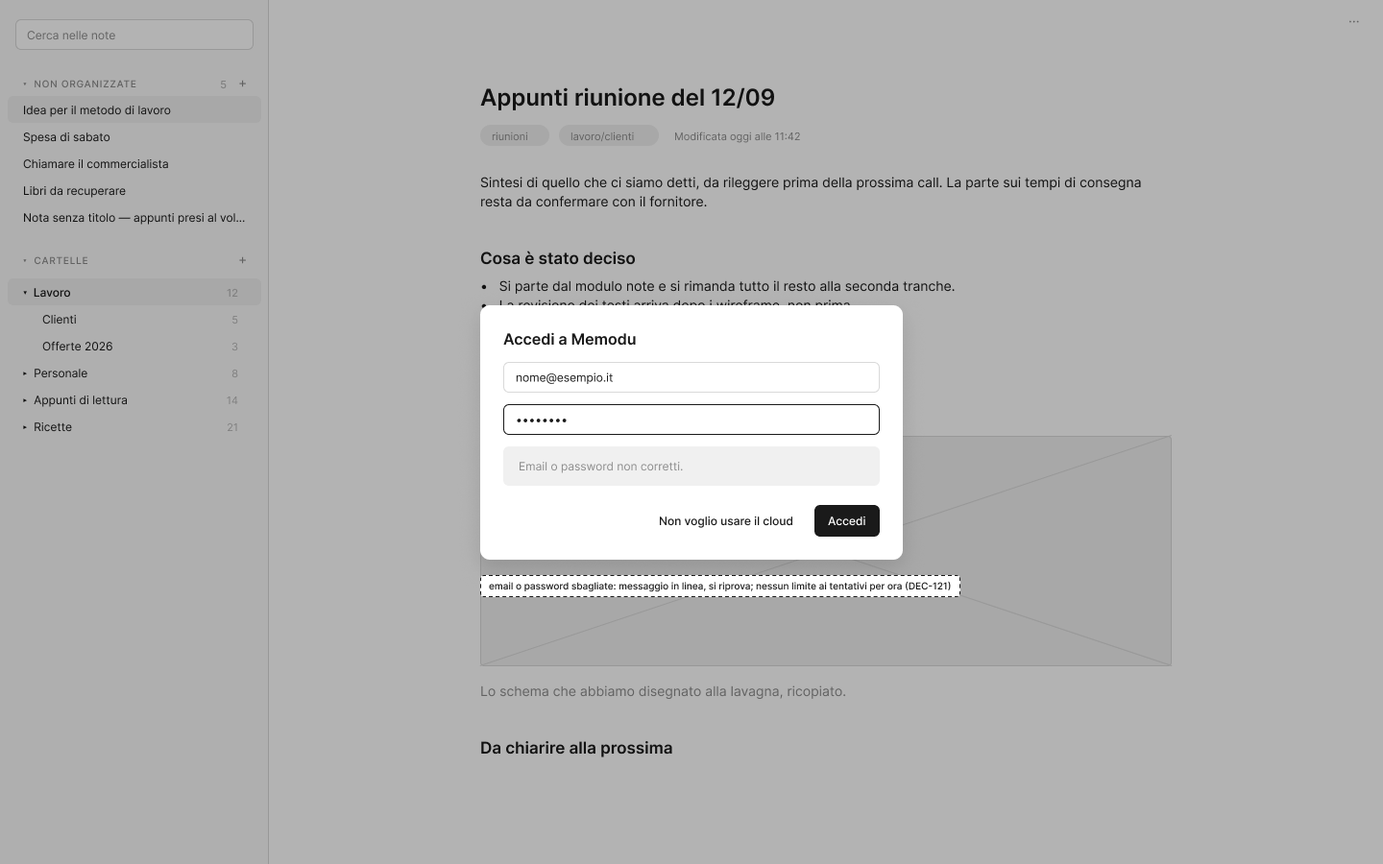
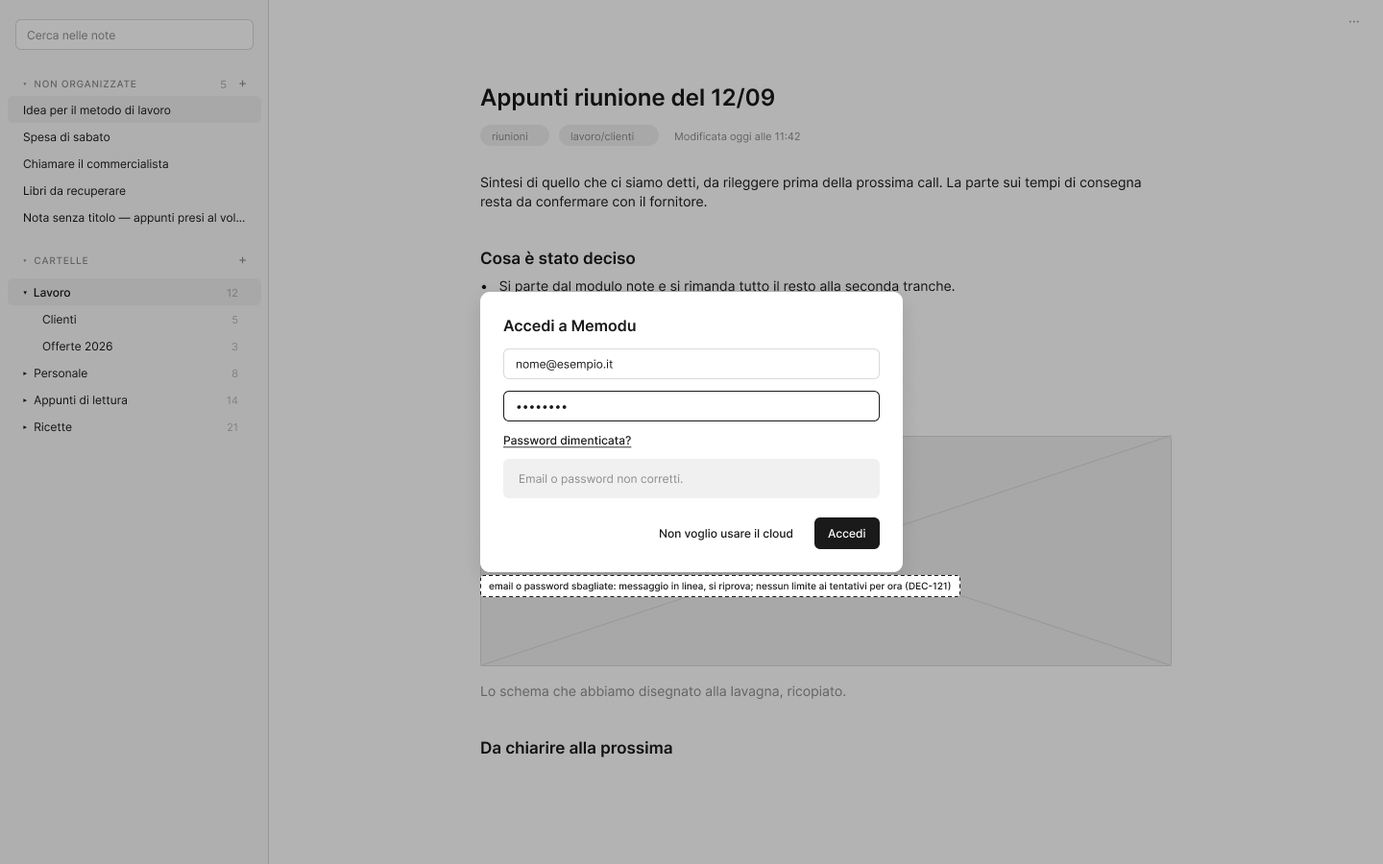
DEC-132: Fase 4 degli account nel database approvata, wireframe del recupero, del cambio della password e dei dispositivi

Changed region(s): [[0.3438, 0.3111, 0.6562, 0.56], [0.3438, 0.56, 0.6562, 0.6844]]

diff --git a/docs/avanzamento.md b/docs/avanzamento.md
@@ -2,7 +2,7 @@
 
 <!-- Stato della documentazione (vedi "Lo stato della documentazione" nella guida). Si sovrascrive; le modifiche non vanno nello storico. Chi riprende il lavoro parte da qui. -->
 
-**Ultimo aggiornamento:** 14/10/2026 (account nel database per la prova (DEC-132): Fase 1 di RF-14 e RF-16 approvata; Fase 2 approvata (FL-14, FL-15, RB-97 … RB-100); Fase 3 approvata (EN-05, EN-06 e stati del dispositivo; email e cancellazione dell'account non dall'app), prossimo: Fase 4 (wireframe); scenario d'uso approvato da Manuel Cucca, RF-16 da Should a Must, RF-10 con i blocchi separati per utente; la chiave nuova dopo un recupero la manda l'utente a Manuel Cucca; criteri di accettazione in Fase 8; idea ID-39, diario «a rete», da riprendere dopo. Prima, 09/10/2026: versione 1.1.0 di prova: numero di versione a 1.1.0 su `main` e tag `1.1.0` senza «v» (scelta di Manuel Cucca: il rilascio su GitHub non parte, la 1.0.0 ha la priorità), installata sul PC di Manuel Cucca. Prima, 09/10/2026: bollicina nelle note di rilascio della 1.1.0 (CHANGELOG) e nella guida per gli utenti (sezione «La bollicina del formato», nota rapida, Locale), approvate da Manuel Cucca; la bollicina è pronta per il rilascio con la 1.1.0, dopo la 1.0.0. Prima, 09/10/2026: bollicina: libreria pubblicata da Manuel Cucca, mockup di SC-02, SC-03 e del file `.md` di Locale aggiornati al ritocco ed esportati di nuovo; prossimo: il rilascio della 1.1.0 dopo la 1.0.0 (note di rilascio e guida con la bollicina). Prima, 09/10/2026: bollicina, libreria Figma aggiornata al ritocco (bollicina alta 32, nella nota rapida accanto a Chiudi, cassetto centrato o su due righe allineato in basso, anche nel codice), da pubblicare; poi i mockup. Prima, 09/10/2026: bollicina, attività 5 fatta: prove a mano TC-12, TC-167 … TC-171 e TC-173 superate nell'app di sviluppo, TC-172 superato; restano la libreria Figma e i mockup da aggiornare al ritocco grafico (con l'ok di Manuel Cucca), poi il rilascio con la 1.1.0. Prima, 09/10/2026: bollicina, attività 4 fatta: 8 prove automatiche dell'interfaccia (componente, nota aperta con l'editor vero, file `.md` e `.txt`, nota rapida), 274 prove in tutto; prossimo: attività 5, prove a mano. Prima, 09/10/2026: bollicina, attività 3 fatta: bollicina nella nota aperta, nella nota rapida (subito a sinistra di Chiudi, ritocco di Manuel Cucca) e nei file `.md`, alta 32 come gli altri pulsanti; provata nell'app di sviluppo; il formato acceso resta anche dopo uno spazio e quando il cursore torna nello stesso punto (266 prove); libreria Figma e mockup da aggiornare al ritocco; prossimo: attività 4, prove automatiche dell'interfaccia. Prima, 09/10/2026: bollicina, attività 2 fatta: componente `Bollicina.tsx` (CMP-10) con il cassetto su una o due righe, l'editor avvisa del formato e applica la voce scelta; prossimo: attività 3, la bollicina nella nota aperta, nella nota rapida e nei file `.md`. Prima, 09/10/2026: bollicina, attività 1 fatta: formato mostrato e comandi del cassetto in `formati.ts`, `<u>`, formato in attesa e `-[]` in `scrittura.ts`, 21 prove automatiche nuove (264 in tutto); prossimo: attività 2, la bollicina collegata all'editor. Prima, 09/10/2026: Fase 8 di RF-02 per la bollicina approvata; prossimo: attività 1 (comandi): TC-12 riscritto, TC-167 … TC-173, TC-11 e TC-13 rinviati con le scorciatoie; cinque attività di sviluppo. Prima, 09/10/2026: Fase 7 di RF-02 per la bollicina approvata; prossimo: Fase 8 (piano di test): editor CodeMirror confermato, comandi della bollicina sopra la libreria, scorciatoie rinviate da Manuel Cucca (vedi Rinvii). Prima, 09/10/2026: Fase 6 di RF-02 per la bollicina approvata; prossimo: Fase 7 (architettura): libreria pubblicata due volte (icone a tracciato unico e CMP-10; poi CMP-23 con la bollicina), file dei mockup aggiornato con i colori delle icone e i testi rimessi, mockup nuovi di SC-03 (bollicina chiusa, cassetto aperto, nota nuova con T), SC-02 (cassetto aperto) e del file `.md` di Locale; pillola e menu `/` SUPERATI. Prima, 09/10/2026: Fase 5 di RF-02 per la bollicina approvata: CMP-10 Bollicina del formato con le parti interne Bollicina e Cassetto, tre icone nuove, icone unite in un tracciato solo; libreria da pubblicare (la pubblica Manuel Cucca); prossimo: Fase 6, i mockup. Prima, 09/10/2026: Fase 4 di RF-02 per la bollicina approvata: SC-03 con la bollicina e il cassetto, SC-02 con la bollicina nella fascia in basso, il file `.md` di Locale. Prima, 09/10/2026: Fase 3 di RF-02 per la bollicina approvata: nessun attributo nuovo, i formati stanno nel Contenuto (RB-95). Prima, 09/10/2026: Fase 2 di RF-02 per la bollicina approvata: FL-02 con i tre modi di formattare, RB-93 … RB-96, SF-36 con il sottolineato. Prima, 09/10/2026: DEC-131: la bollicina del formato in vista Markdown, con il cassetto dei formati, le scorciatoie e `-[]`; Fase 1 di RF-02 approvata; prossimo: Fase 2 (flussi). Prima, 09/10/2026: ciclo 1.1.0: note di rilascio in CHANGELOG e guida per gli utenti aggiornate con la vista della nota; per scelta di Manuel Cucca la 1.1.0 si pubblica dopo la 1.0.0, che attende le prove sul Mac. Prima, 09/10/2026: ciclo 1.1.0, attività 5 fatta: prove a mano TC-10, TC-158 … TC-164 e TC-166 superate nell'app di sviluppo; in TC-10 il testo dopo i simboli di chiusura scritti a mano resta nel formato, comportamento previsto per Manuel Cucca; prossimo: 9 – Rilascio della 1.1.0. Prima, 09/10/2026: ciclo 1.1.0, attività 4 fatta: 7 prove automatiche dell'interfaccia per la vista, 248 prove passate, lint pulito; prossimo: attività 5, prove a mano. Prima, 09/10/2026: ciclo 1.1.0, attività 3 fatta: riga Vista in Info, vista nella nota aperta, nella nota rapida e in Locale per estensione; prossimo: attività 4, prove automatiche dell'interfaccia. Prima, 09/10/2026: ciclo 1.1.0, attività 2 fatta: l'editor con la vista Markdown, simboli nascosti e scrittura come in Word, 15 prove automatiche; prossimo: attività 3, l'interfaccia. Prima, 08/10/2026: ciclo 1.1.0: Fasi 1–8 della vista della nota fatte, piano di test TC-10 e TC-158 … TC-166, cinque attività di sviluppo; prossimo: attività 1, il nucleo. Prima, 08/10/2026: ciclo 1.1.0, DEC-130: ogni nota si vede come Testo o come Markdown, scelta nella comparsa Info e salvata con la nota; simboli nascosti e scrittura come in Word; Fase 1 di RF-02 con CA-02.2 e CA-02.14 … CA-02.19, più CA-17.25 per i file di Locale; prossimo: Fase 2 (flussi). Prima, 08/10/2026: DEC-129: la 1.0.0 attende le prove sul Mac sul ramo `rilascio/1.0`; su `main` si apre il ciclo della 1.1.0 con la formattazione Markdown di RF-02 (DEC-64, DEC-125); prima scelta: il motore dell'editor. Prima, 08/10/2026: Fase 9 conclusa: retrospettiva con SF-38 … SF-42 nel catalogo delle sfighe, ID-37 e ID-38 nel registro idee, DEC-128 e due aggiunte alla guida; prossimo: le prove sul Mac elencate in DEC-128, poi il rilascio della 1.0.0 quando lo decide Manuel Cucca. Prima, 08/10/2026: note di rilascio della 1.0.0 approvate. Prima, 08/10/2026: guida per gli utenti approvata; restano note di rilascio e retrospettiva, più le discordanze tra documenti e codice trovate scrivendo la guida. Prima, 07/10/2026: DEC-125: RF-02 (formattazione) e RF-03 (immagini) fuori dalla v1 personale; prossimo la Fase 9. Prima, 07/10/2026: RF-11 Interazioni rapide: criteri e piano di test approvati, prove TC-150 … TC-157 superate; Pronto per il rilascio (resta macOS, con ⌘). Prima, 07/10/2026: DEC-124 accettata e fatta: clic fuori sulle finestre col velo come Esc, manina su tutto ciò che si clicca; doppio occhio di Edge nel campo password tolto; rilasciati nella 0.1.13. Prima, 07/10/2026: rilascio 0.1.12 con la correzione della sincronizzazione dopo un archivio nuovo e il server che accetta solo il JWT. Prima, 07/10/2026: prove a mano del blocco 1 fatte dall'agente con app di sviluppo in parallelo: sincronizzazione TC-87 … TC-95 e TC-103 (con una correzione nel nucleo), scrivere TC-02, TC-03, TC-23, TC-24, TC-26, TC-27, TC-30, ricerca TC-74, Locale TC-104; restano le prove che vogliono gesti veri sul sistema o il Mac. Prima, 07/10/2026: verso la v1 personale, blocco 1 scelto da Manuel Cucca: produzione ripulita (gettone statico tolto dall'API), backup in sospeso, prove a mano fatte dall'agente avvisando prima di ognuna. Prima, 07/10/2026: DEC-123 accettata da Manuel Cucca: comparsa del file di Locale con Chiudi file e Togli da Locale; codice fatto e rilasciato nella 0.1.11, TC-146 e TC-148 superati. Prima, 07/10/2026: DEC-122 accettata da Manuel Cucca: impostazioni con il box dell'account in cima e le sezioni in riquadri; libreria approvata (CMP-31, CMP-32); codice fatto e rilasciato nella 0.1.10, TC-141 e TC-142 superati; restano TC-143 … TC-145 a mano. 0.1.9 installata sul PC Windows, note sul server tutte cifrate; da fare il Mac, TC-127, TC-136 e la rimozione di `MEMODU_IMPRONTA`. Prima, 06/10/2026: DEC-121 accettata da Manuel Cucca: accesso con email e password di un utente fisso e cifratura end-to-end, architettura temporanea e finale; documenti aggiornati, RF-14 e cifratura di RF-10 Pronti con criteri e piano di test approvati, la cifratura di RF-10 va in Fase 8; codice da fare. Prima, 04/10/2026: DEC-120 corretto dopo la prova di Manuel Cucca sulla 0.1.7: velo su tutta la finestra mentre si trascina da fuori, il file rilasciato non entra più nel testo aperto; rilasciato nella 0.1.8, installata sul PC di Manuel Cucca; TC-122 superato su Windows, da provare sul Mac; DEC-120: file e cartelle trascinati dentro Memodu vanno in Locale, trascinamento interno con il puntatore, 0.1.7 rilasciata e installata; DEC-119: sezione CLOUD con le non organizzate nella radice, note prima delle cartelle; libreria pubblicata (CMP-14, menu Aggiungi in CMP-09), mockup di SC-01, SC-03, SC-04, SC-06 e Locale aggiornati con le esportazioni; codice fatto il 04/10/2026 (`Colonna.tsx`, Sposta in, ricerca, ordine di Locale nel nucleo) e visto nell'app; RF-17 Locale progettato dalla Fase 1 alla 8 e scritto, DEC-115 … DEC-118; Ctrl + W e «Chiudi» per impostazioni e cestino, DEC-116, DEC-117; rilascio 0.1.4, installato su tutti e due i computer; TC-86 superato, le altre prove a mano della sincronizzazione messe da parte; criteri e piano di test della sincronizzazione approvati con DEC-109 … DEC-114, RF-10 senza cifratura e RF-14 Pronti; server di sincronizzazione su Vercel con Neon e due computer collegati; rilasci 0.1.2 e 0.1.3, con il testo della nota su tutta la larghezza (DEC-107); prima, 01/10/2026: allineamento generale della documentazione a decisioni e codice, con i dubbi raccolti per Manuel Cucca; CMP-25 in tutte le aree che scorrono, provata anche nella nota rapida; DEC-102 Ctrl + \ fissa la colonna, provata su Windows, da provare su macOS; DEC-99 icona della cartella e DEC-100 spazi dal ruolo del contenitore: libreria, mockup e codice allineati e misurati nell'app; DEC-97: Info più snella e due regole per gli spazi dei contenitori, in libreria e nel codice; prossimo: la pubblicazione della libreria e i mockup; DEC-96: Info sotto il titolo e ricerca avanzata, libreria allineata; RF-08 Ricerca: prove a mano nell'app e correzione dei due difetti trovati; prossimo: le prove che vogliono Manuel Cucca, poi Fase 9)
+**Ultimo aggiornamento:** 14/10/2026 (account nel database per la prova (DEC-132): Fase 1 di RF-14 e RF-16 approvata; Fase 2 approvata (FL-14, FL-15, RB-97 … RB-100); Fase 3 approvata (EN-05, EN-06 e stati del dispositivo; email e cancellazione dell'account non dall'app); Fase 4 approvata (wireframe di SC-05 con il recupero, SC-08 Cambia password, SC-09 Dispositivi collegati, collegamenti nel box dell'account di SC-06), prossimo: Fase 5 (componenti: collegamento, casella, chiave da conservare); scenario d'uso approvato da Manuel Cucca, RF-16 da Should a Must, RF-10 con i blocchi separati per utente; la chiave nuova dopo un recupero la manda l'utente a Manuel Cucca; criteri di accettazione in Fase 8; idea ID-39, diario «a rete», da riprendere dopo. Prima, 09/10/2026: versione 1.1.0 di prova: numero di versione a 1.1.0 su `main` e tag `1.1.0` senza «v» (scelta di Manuel Cucca: il rilascio su GitHub non parte, la 1.0.0 ha la priorità), installata sul PC di Manuel Cucca. Prima, 09/10/2026: bollicina nelle note di rilascio della 1.1.0 (CHANGELOG) e nella guida per gli utenti (sezione «La bollicina del formato», nota rapida, Locale), approvate da Manuel Cucca; la bollicina è pronta per il rilascio con la 1.1.0, dopo la 1.0.0. Prima, 09/10/2026: bollicina: libreria pubblicata da Manuel Cucca, mockup di SC-02, SC-03 e del file `.md` di Locale aggiornati al ritocco ed esportati di nuovo; prossimo: il rilascio della 1.1.0 dopo la 1.0.0 (note di rilascio e guida con la bollicina). Prima, 09/10/2026: bollicina, libreria Figma aggiornata al ritocco (bollicina alta 32, nella nota rapida accanto a Chiudi, cassetto centrato o su due righe allineato in basso, anche nel codice), da pubblicare; poi i mockup. Prima, 09/10/2026: bollicina, attività 5 fatta: prove a mano TC-12, TC-167 … TC-171 e TC-173 superate nell'app di sviluppo, TC-172 superato; restano la libreria Figma e i mockup da aggiornare al ritocco grafico (con l'ok di Manuel Cucca), poi il rilascio con la 1.1.0. Prima, 09/10/2026: bollicina, attività 4 fatta: 8 prove automatiche dell'interfaccia (componente, nota aperta con l'editor vero, file `.md` e `.txt`, nota rapida), 274 prove in tutto; prossimo: attività 5, prove a mano. Prima, 09/10/2026: bollicina, attività 3 fatta: bollicina nella nota aperta, nella nota rapida (subito a sinistra di Chiudi, ritocco di Manuel Cucca) e nei file `.md`, alta 32 come gli altri pulsanti; provata nell'app di sviluppo; il formato acceso resta anche dopo uno spazio e quando il cursore torna nello stesso punto (266 prove); libreria Figma e mockup da aggiornare al ritocco; prossimo: attività 4, prove automatiche dell'interfaccia. Prima, 09/10/2026: bollicina, attività 2 fatta: componente `Bollicina.tsx` (CMP-10) con il cassetto su una o due righe, l'editor avvisa del formato e applica la voce scelta; prossimo: attività 3, la bollicina nella nota aperta, nella nota rapida e nei file `.md`. Prima, 09/10/2026: bollicina, attività 1 fatta: formato mostrato e comandi del cassetto in `formati.ts`, `<u>`, formato in attesa e `-[]` in `scrittura.ts`, 21 prove automatiche nuove (264 in tutto); prossimo: attività 2, la bollicina collegata all'editor. Prima, 09/10/2026: Fase 8 di RF-02 per la bollicina approvata; prossimo: attività 1 (comandi): TC-12 riscritto, TC-167 … TC-173, TC-11 e TC-13 rinviati con le scorciatoie; cinque attività di sviluppo. Prima, 09/10/2026: Fase 7 di RF-02 per la bollicina approvata; prossimo: Fase 8 (piano di test): editor CodeMirror confermato, comandi della bollicina sopra la libreria, scorciatoie rinviate da Manuel Cucca (vedi Rinvii). Prima, 09/10/2026: Fase 6 di RF-02 per la bollicina approvata; prossimo: Fase 7 (architettura): libreria pubblicata due volte (icone a tracciato unico e CMP-10; poi CMP-23 con la bollicina), file dei mockup aggiornato con i colori delle icone e i testi rimessi, mockup nuovi di SC-03 (bollicina chiusa, cassetto aperto, nota nuova con T), SC-02 (cassetto aperto) e del file `.md` di Locale; pillola e menu `/` SUPERATI. Prima, 09/10/2026: Fase 5 di RF-02 per la bollicina approvata: CMP-10 Bollicina del formato con le parti interne Bollicina e Cassetto, tre icone nuove, icone unite in un tracciato solo; libreria da pubblicare (la pubblica Manuel Cucca); prossimo: Fase 6, i mockup. Prima, 09/10/2026: Fase 4 di RF-02 per la bollicina approvata: SC-03 con la bollicina e il cassetto, SC-02 con la bollicina nella fascia in basso, il file `.md` di Locale. Prima, 09/10/2026: Fase 3 di RF-02 per la bollicina approvata: nessun attributo nuovo, i formati stanno nel Contenuto (RB-95). Prima, 09/10/2026: Fase 2 di RF-02 per la bollicina approvata: FL-02 con i tre modi di formattare, RB-93 … RB-96, SF-36 con il sottolineato. Prima, 09/10/2026: DEC-131: la bollicina del formato in vista Markdown, con il cassetto dei formati, le scorciatoie e `-[]`; Fase 1 di RF-02 approvata; prossimo: Fase 2 (flussi). Prima, 09/10/2026: ciclo 1.1.0: note di rilascio in CHANGELOG e guida per gli utenti aggiornate con la vista della nota; per scelta di Manuel Cucca la 1.1.0 si pubblica dopo la 1.0.0, che attende le prove sul Mac. Prima, 09/10/2026: ciclo 1.1.0, attività 5 fatta: prove a mano TC-10, TC-158 … TC-164 e TC-166 superate nell'app di sviluppo; in TC-10 il testo dopo i simboli di chiusura scritti a mano resta nel formato, comportamento previsto per Manuel Cucca; prossimo: 9 – Rilascio della 1.1.0. Prima, 09/10/2026: ciclo 1.1.0, attività 4 fatta: 7 prove automatiche dell'interfaccia per la vista, 248 prove passate, lint pulito; prossimo: attività 5, prove a mano. Prima, 09/10/2026: ciclo 1.1.0, attività 3 fatta: riga Vista in Info, vista nella nota aperta, nella nota rapida e in Locale per estensione; prossimo: attività 4, prove automatiche dell'interfaccia. Prima, 09/10/2026: ciclo 1.1.0, attività 2 fatta: l'editor con la vista Markdown, simboli nascosti e scrittura come in Word, 15 prove automatiche; prossimo: attività 3, l'interfaccia. Prima, 08/10/2026: ciclo 1.1.0: Fasi 1–8 della vista della nota fatte, piano di test TC-10 e TC-158 … TC-166, cinque attività di sviluppo; prossimo: attività 1, il nucleo. Prima, 08/10/2026: ciclo 1.1.0, DEC-130: ogni nota si vede come Testo o come Markdown, scelta nella comparsa Info e salvata con la nota; simboli nascosti e scrittura come in Word; Fase 1 di RF-02 con CA-02.2 e CA-02.14 … CA-02.19, più CA-17.25 per i file di Locale; prossimo: Fase 2 (flussi). Prima, 08/10/2026: DEC-129: la 1.0.0 attende le prove sul Mac sul ramo `rilascio/1.0`; su `main` si apre il ciclo della 1.1.0 con la formattazione Markdown di RF-02 (DEC-64, DEC-125); prima scelta: il motore dell'editor. Prima, 08/10/2026: Fase 9 conclusa: retrospettiva con SF-38 … SF-42 nel catalogo delle sfighe, ID-37 e ID-38 nel registro idee, DEC-128 e due aggiunte alla guida; prossimo: le prove sul Mac elencate in DEC-128, poi il rilascio della 1.0.0 quando lo decide Manuel Cucca. Prima, 08/10/2026: note di rilascio della 1.0.0 approvate. Prima, 08/10/2026: guida per gli utenti approvata; restano note di rilascio e retrospettiva, più le discordanze tra documenti e codice trovate scrivendo la guida. Prima, 07/10/2026: DEC-125: RF-02 (formattazione) e RF-03 (immagini) fuori dalla v1 personale; prossimo la Fase 9. Prima, 07/10/2026: RF-11 Interazioni rapide: criteri e piano di test approvati, prove TC-150 … TC-157 superate; Pronto per il rilascio (resta macOS, con ⌘). Prima, 07/10/2026: DEC-124 accettata e fatta: clic fuori sulle finestre col velo come Esc, manina su tutto ciò che si clicca; doppio occhio di Edge nel campo password tolto; rilasciati nella 0.1.13. Prima, 07/10/2026: rilascio 0.1.12 con la correzione della sincronizzazione dopo un archivio nuovo e il server che accetta solo il JWT. Prima, 07/10/2026: prove a mano del blocco 1 fatte dall'agente con app di sviluppo in parallelo: sincronizzazione TC-87 … TC-95 e TC-103 (con una correzione nel nucleo), scrivere TC-02, TC-03, TC-23, TC-24, TC-26, TC-27, TC-30, ricerca TC-74, Locale TC-104; restano le prove che vogliono gesti veri sul sistema o il Mac. Prima, 07/10/2026: verso la v1 personale, blocco 1 scelto da Manuel Cucca: produzione ripulita (gettone statico tolto dall'API), backup in sospeso, prove a mano fatte dall'agente avvisando prima di ognuna. Prima, 07/10/2026: DEC-123 accettata da Manuel Cucca: comparsa del file di Locale con Chiudi file e Togli da Locale; codice fatto e rilasciato nella 0.1.11, TC-146 e TC-148 superati. Prima, 07/10/2026: DEC-122 accettata da Manuel Cucca: impostazioni con il box dell'account in cima e le sezioni in riquadri; libreria approvata (CMP-31, CMP-32); codice fatto e rilasciato nella 0.1.10, TC-141 e TC-142 superati; restano TC-143 … TC-145 a mano. 0.1.9 installata sul PC Windows, note sul server tutte cifrate; da fare il Mac, TC-127, TC-136 e la rimozione di `MEMODU_IMPRONTA`. Prima, 06/10/2026: DEC-121 accettata da Manuel Cucca: accesso con email e password di un utente fisso e cifratura end-to-end, architettura temporanea e finale; documenti aggiornati, RF-14 e cifratura di RF-10 Pronti con criteri e piano di test approvati, la cifratura di RF-10 va in Fase 8; codice da fare. Prima, 04/10/2026: DEC-120 corretto dopo la prova di Manuel Cucca sulla 0.1.7: velo su tutta la finestra mentre si trascina da fuori, il file rilasciato non entra più nel testo aperto; rilasciato nella 0.1.8, installata sul PC di Manuel Cucca; TC-122 superato su Windows, da provare sul Mac; DEC-120: file e cartelle trascinati dentro Memodu vanno in Locale, trascinamento interno con il puntatore, 0.1.7 rilasciata e installata; DEC-119: sezione CLOUD con le non organizzate nella radice, note prima delle cartelle; libreria pubblicata (CMP-14, menu Aggiungi in CMP-09), mockup di SC-01, SC-03, SC-04, SC-06 e Locale aggiornati con le esportazioni; codice fatto il 04/10/2026 (`Colonna.tsx`, Sposta in, ricerca, ordine di Locale nel nucleo) e visto nell'app; RF-17 Locale progettato dalla Fase 1 alla 8 e scritto, DEC-115 … DEC-118; Ctrl + W e «Chiudi» per impostazioni e cestino, DEC-116, DEC-117; rilascio 0.1.4, installato su tutti e due i computer; TC-86 superato, le altre prove a mano della sincronizzazione messe da parte; criteri e piano di test della sincronizzazione approvati con DEC-109 … DEC-114, RF-10 senza cifratura e RF-14 Pronti; server di sincronizzazione su Vercel con Neon e due computer collegati; rilasci 0.1.2 e 0.1.3, con il testo della nota su tutta la larghezza (DEC-107); prima, 01/10/2026: allineamento generale della documentazione a decisioni e codice, con i dubbi raccolti per Manuel Cucca; CMP-25 in tutte le aree che scorrono, provata anche nella nota rapida; DEC-102 Ctrl + \ fissa la colonna, provata su Windows, da provare su macOS; DEC-99 icona della cartella e DEC-100 spazi dal ruolo del contenitore: libreria, mockup e codice allineati e misurati nell'app; DEC-97: Info più snella e due regole per gli spazi dei contenitori, in libreria e nel codice; prossimo: la pubblicazione della libreria e i mockup; DEC-96: Info sotto il titolo e ricerca avanzata, libreria allineata; RF-08 Ricerca: prove a mano nell'app e correzione dei due difetti trovati; prossimo: le prove che vogliono Manuel Cucca, poi Fase 9)
 
 ## Pacchetti e frammenti
 
@@ -21,7 +21,7 @@ Perimetro: note solo cloud più un editor di file locali non sincronizzati (DEC-
 | Locale (DEC-115, DEC-123) | RF-17 | 1–8; codice fatto il 04/10/2026 | DEC-123: fatto; TC-146 … TC-149 superati il 07/10/2026 (codice fatto e rilasciato nella 0.1.11 il 07/10/2026, TC-146 e TC-148 superati); poi prove a mano di Manuel Cucca | **DEC-123 del 07/10/2026:** clic sul nome di un file nel percorso apre una comparsa come Info con il nome, Chiudi file e, per un file aggiunto da solo, Togli da Locale. **Codice fatto il 04/10/2026:** nucleo `archivio_locale.rs` e `locale.rs` (schema 6, 16 prove), interfaccia `client/src/locale/` (7 prove); provato nell'app con una cartella dei dati di prova: apertura, pallino, Ctrl + S, file cambiato fuori, UTF-8, CRLF, file troppo grande, sola lettura, file nuovo, menu, Cestino di Windows. Prove a mano del 05/10/2026 nell'app installata (0.1.8) su Windows (agente, cartella dei dati di prova): superati TC-104 (tranne il secondo computer), TC-105, TC-106, TC-107, TC-113, TC-115, TC-117, TC-119, TC-123; **TC-114 non superato**: su un disco senza Cestino (provato su una condivisione di rete) Elimina cancellava per sempre senza la conferma; corretto nel nucleo il 05/10/2026 (solo i dischi fissi di Windows vanno nel Cestino), provato nell'app compilata e superato, non ancora rilasciato; resta la prova con una chiavetta vera (vedi `moduli/locale/8-test.md`). Scelte di Manuel Cucca del 04/10/2026 in `moduli/locale/1-requisiti.md`: voce Locale nella colonna con le cartelle aggiunte, solo .md e .txt, crea, rinomina, sposta ed elimina sul disco (nel Cestino del sistema), salvataggio con Ctrl + S, avviso se il file cambia fuori, niente tag, ricerca, cestino né sincronizzazione; elenco delle cartelle per computer. Fase 1 chiusa il 04/10/2026 con lo scenario d'uso; Manuel Cucca ha scelto di progettarlo subito |
 | Vista della nota · 1.1.0 (DEC-129, DEC-130) | RF-02 (CA-02.2, CA-02.14 … CA-02.20), CA-17.25 | 1, 2, 3, 4, 5, 6, 7, 8 | Pronto per il rilascio, dopo la 1.0.0 (attività 1 … 5 fatte: il nucleo il 08/10/2026, le altre il 09/10/2026; prove a mano TC-10, TC-158 … TC-164 e TC-166 superate, TC-165 in prova automatica) | Su `main`; la 1.0.0 attende le prove sul Mac sul ramo `rilascio/1.0`. **Attività:** (1) nucleo: schema 7 con `vista`, note nuove in `markdown`, `cambia_vista`, sincronizzazione con RB-92, prove del nucleo (TC-165); (2) editor: compartimento Markdown in `Editor.tsx` con la resa da `anteprima.ts`, simboli atomici, ai bordi e Invio e Backspace come in Word, casella cliccabile (CA-02.2, CA-02.15 … CA-02.20); (3) interfaccia: riga Vista in Info con `SceltaSegmenti`, vista nella nota aperta, nella nota rapida e in Locale per estensione (CA-02.14, CA-17.25); (4) prove automatiche dell'interfaccia e lint; (5) prove a mano TC-10, TC-158 … TC-166, poi 9 – Rilascio della 1.1.0 |
 | Bollicina del formato (DEC-131) | RF-02 (CA-02.3 … CA-02.5, CA-02.21 … CA-02.25) | 1, 2, 3, 4, 5, 6, 7, 8 | Pronto per il rilascio, con la 1.1.0 | Su `main`, dopo la vista della nota. Sostituisce la pillola degli strumenti (CMP-10). Attività di sviluppo: 1) formato mostrato e comandi in `formati.ts`, `<u>` e `-[]` in `scrittura.ts`, con le prove automatiche (TC-172); 2) componente `Bollicina.tsx` e collegamento con l'editor; 3) nota aperta, nota rapida e file `.md`; 4) prove automatiche dell'interfaccia; 5) prove a mano (TC-12, TC-167 … TC-171, TC-173) |
-| Account nel database per la prova (DEC-132) | RF-14, RF-16, RF-10 | 1, 2, 3 | 4 – Wireframe | Fase 1 approvata da Manuel Cucca il 14/10/2026; Fase 2 approvata da Manuel Cucca il 14/10/2026: FL-08 aggiornato, FL-14 (cambio della password e recupero), FL-15 (dispositivi e chiusura a distanza), RB-97 … RB-100; creazione dell'account rinviata |
+| Account nel database per la prova (DEC-132) | RF-14, RF-16, RF-10 | 1, 2, 3, 4 | 5 – Componenti | Fase 1 approvata da Manuel Cucca il 14/10/2026; Fase 2 approvata da Manuel Cucca il 14/10/2026: FL-08 aggiornato, FL-14 (cambio della password e recupero), FL-15 (dispositivi e chiusura a distanza), RB-97 … RB-100; creazione dell'account rinviata |
 | Should | RF-07, RF-09, RF-12, RF-13, RF-16 | — | 1 – Requisiti | Mancano gli scenari d'uso |
 
 ### Idee parcheggiate

diff --git a/docs/moduli/sincronizzazione/4-schermate.md b/docs/moduli/sincronizzazione/4-schermate.md
@@ -44,10 +44,11 @@ Al posto della finestra principale e della nota rapida quando la copia di lavoro
 ---
 
 ## SC-05 – Accesso
-**Flussi:** FL-08 · **Componenti:** modulo di accesso (CMP-22), campo di testo con password (CMP-03), pulsante, messaggio in linea
+**Flussi:** FL-08, FL-14 · **Componenti:** modulo di accesso (CMP-22), campo di testo con password (CMP-03), pulsante, messaggio in linea
 
 - **Wireframe:** [accesso](https://www.figma.com/design/ioeRDMTxu3TEMoLN8rinAK/Memodu--Wireframe--Fase-4-?node-id=38-181) · [email o password errate](https://www.figma.com/design/ioeRDMTxu3TEMoLN8rinAK/Memodu--Wireframe--Fase-4-?node-id=38-196) (approvati da Manuel Cucca il 06/10/2026)
 - **Esportazioni:** `immagini/SC-05.png`, `immagini/SC-05-errore.png`
+- **Wireframe del recupero (DEC-132, approvati da Manuel Cucca il 14/10/2026):** [recupero](https://www.figma.com/design/ioeRDMTxu3TEMoLN8rinAK/Memodu--Wireframe--Fase-4-?node-id=85-195) · [chiave di recupero nuova](https://www.figma.com/design/ioeRDMTxu3TEMoLN8rinAK/Memodu--Wireframe--Fase-4-?node-id=85-280); esportazioni `immagini/SC-05-recupero.png`, `immagini/SC-05-chiave-nuova.png`. Nell'accesso, sotto la password, il collegamento «Password dimenticata?» (anche nei due wireframe qui sopra, esportazioni rifatte il 14/10/2026); i mockup sono da rifare in Fase 6
 - **Mockup (approvati da Manuel Cucca il 06/10/2026):** [accesso](https://www.figma.com/design/18288YdcRf5vtWCtEefQYJ?node-id=210-2936) · [email o password errate](https://www.figma.com/design/18288YdcRf5vtWCtEefQYJ?node-id=210-3109); esportazioni `immagini/SC-05-mockup.png`, `immagini/SC-05-errore-mockup.png`
 
 **Attiva con DEC-121**, che supera DEC-19. Si apre da «Accedi» nel box dell'account delle impostazioni (SC-06, DEC-122) o dall'avviso «Accedi di nuovo per sincronizzare» (RB-87); non compare all'avvio, che resta sulla copia di lavoro (RNF-01).
@@ -61,3 +62,66 @@ Finestra sopra le note velate (livello 40, scelta di Manuel Cucca il 06/10/2026)
 | Caricamento | Dopo Accedi, Accedi in caricamento mentre il dispositivo calcola Argon2id (circa mezzo secondo) e il server risponde | — |
 | Errore | Email o password errate, oppure server irraggiungibile: messaggio in linea sopra i pulsanti | «Email o password non corrette.»; server irraggiungibile: «Non riesco a raggiungere il server. Riprova tra poco.» |
 | Successo | Si torna dove si era e la sincronizzazione parte; si resta collegati (RB-86) | — |
+
+**Recupero (DEC-132, FL-14, RB-99).** «Password dimenticata?» cambia il contenuto della stessa finestra (scelta di Manuel Cucca il 14/10/2026): titolo «Recupera l'account», una riga di spiegazione, email, chiave di recupero, password nuova due volte, la casella «Scollega gli altri miei dispositivi» e i pulsanti «Torna all'accesso» e «Recupera». Dopo la conferma del server la finestra mostra la chiave di recupero nuova, una volta sola, con «Copia» e il promemoria di mandarla a Manuel Cucca durante la prova; «Ho conservato la chiave» chiude e il dispositivo risulta collegato. La stessa schermata della chiave nuova chiude il cambio della password fatto con la chiave (SC-08). Testi: proposta dell'agente approvata con i wireframe il 14/10/2026, definitivi in Fase 6.
+
+| Stato | Descrizione | Testo mostrato |
+|---|---|---|
+| Recupero, vuoto | Email già scritta se c'era nell'accesso | «Recupera l'account», «Scrivi la chiave di recupero e scegli una password nuova. Le tue note restano tutte.» |
+| Recupero, caricamento | «Recupera» in caricamento | — |
+| Recupero, errore | Chiave non corretta, password nuova non valida (RB-88) o server irraggiungibile: messaggio in linea sopra i pulsanti | «Chiave di recupero non corretta.»; per la password, il motivo; server: come nell'accesso |
+| Chiave nuova | Dopo la conferma del server | «La tua nuova chiave di recupero», «La vedi solo adesso. Conservala: ti serve se dimentichi la password. Quella di prima non vale più.», «Durante la prova mandala a Manuel Cucca, che conserva le chiavi di tutti.» |
+
+---
+
+## SC-08 – Cambia password
+**Flussi:** FL-14 · **Regole:** RB-88, RB-98, RB-99 · **Componenti:** finestra, campo di testo, collegamento, casella, messaggio in linea, pulsanti
+
+- **Wireframe (DEC-132, approvati da Manuel Cucca il 14/10/2026):** [cambia password](https://www.figma.com/design/ioeRDMTxu3TEMoLN8rinAK/Memodu--Wireframe--Fase-4-?node-id=85-353) · [con la chiave di recupero, chiave non corretta](https://www.figma.com/design/ioeRDMTxu3TEMoLN8rinAK/Memodu--Wireframe--Fase-4-?node-id=85-477); esportazioni `immagini/SC-08.png`, `immagini/SC-08-chiave-errata.png`
+
+Finestra sopra le impostazioni velate (livello 40), aperta da «Cambia password» nel box dell'account di SC-06 (scelta di Manuel Cucca il 14/10/2026). Campo della password attuale con sotto il collegamento «Usa la chiave di recupero», che lo scambia con il campo della chiave (e il collegamento diventa «Usa la password attuale»); password nuova due volte; casella «Scollega gli altri miei dispositivi»; «Annulla» e «Cambia password». Dopo un cambio fatto con la chiave si mostra la chiave nuova come in SC-05 (RB-99). Questo dispositivo resta collegato.
+
+| Stato | Descrizione | Testo mostrato |
+|---|---|---|
+| Vuoto | Campi vuoti, casella spenta | «Cambia password» |
+| Caricamento | «Cambia password» in caricamento | — |
+| Errore | Password attuale o chiave non corretta, password nuova non valida (RB-88), le due nuove diverse, server irraggiungibile: messaggio in linea sopra i pulsanti | «Password attuale non corretta.», «Chiave di recupero non corretta.»; server: «Non riesco a raggiungere il server. Riprova tra poco.» |
+| Successo | La finestra si chiude; con la chiave, prima la chiave nuova | — |
+
+---
+
+## SC-09 – Dispositivi collegati
+**Flussi:** FL-15 · **Regole:** RB-100, RB-89 · **Componenti:** finestra, riquadro con righe, pulsanti, messaggio in linea
+
+- **Wireframe (DEC-132, approvati da Manuel Cucca il 14/10/2026):** [elenco](https://www.figma.com/design/ioeRDMTxu3TEMoLN8rinAK/Memodu--Wireframe--Fase-4-?node-id=85-603) · [conferma](https://www.figma.com/design/ioeRDMTxu3TEMoLN8rinAK/Memodu--Wireframe--Fase-4-?node-id=85-732) · [server non raggiungibile](https://www.figma.com/design/ioeRDMTxu3TEMoLN8rinAK/Memodu--Wireframe--Fase-4-?node-id=85-863); esportazioni `immagini/SC-09.png`, `immagini/SC-09-conferma.png`, `immagini/SC-09-non-raggiungibile.png`
+
+Finestra sopra le impostazioni velate (livello 40), aperta da «Dispositivi collegati» nel box dell'account di SC-06. Una riga di spiegazione, poi i dispositivi nel riquadro come le righe delle impostazioni: nome, tipo e ultima sincronizzazione; questo dispositivo è segnato e non ha «Scollega» (si esce con Esci, RB-89). «Scollega» chiede conferma dentro la riga stessa, senza una seconda finestra: «Annulla» e «Scollega»; dopo, la riga sparisce. «Chiudi» chiude la finestra. Parola «Scollega» e conferma nella riga: proposta dell'agente approvata da Manuel Cucca il 14/10/2026.
+
+| Stato | Descrizione | Testo mostrato |
+|---|---|---|
+| Vuoto | Solo questo dispositivo: una riga | — |
+| Caricamento | L'elenco arriva dal server | — |
+| Errore | Server irraggiungibile: messaggio in linea al posto dell'elenco | «Server non raggiungibile. Riprova tra poco.» |
+| Conferma | La riga del dispositivo diventa la domanda | «Scollegare «MacBook dell'ufficio»?», «Le note su quel computer restano, ma non si sincronizzano più.» |
+| Successo | La riga sparisce | — |
+
+---
+
+## Wireflow – account nel database (DEC-132)
+
+```mermaid
+flowchart LR
+    SC06[SC-06 Impostazioni, collegato] -- Cambia password --> SC08[SC-08 Cambia password]
+    SC08 -- Usa la chiave di recupero --> SC08k[SC-08 con la chiave]
+    SC08k -- Usa la password attuale --> SC08
+    SC08 -- Cambia password --> SC06
+    SC08k -- Cambia password --> Kn[SC-05 Chiave nuova] -- Ho conservato la chiave --> SC06
+    SC08 -- Annulla, Esc --> SC06
+    SC06 -- Dispositivi collegati --> SC09[SC-09 Dispositivi collegati]
+    SC09 -- Scollega --> Conf[Conferma nella riga] -- Scollega --> SC09
+    Conf -- Annulla --> SC09
+    SC09 -- Chiudi, Esc --> SC06
+    SC05[SC-05 Accesso] -- Password dimenticata? --> Rec[SC-05 Recupero]
+    Rec -- Torna all'accesso --> SC05
+    Rec -- Recupera --> Kn2[SC-05 Chiave nuova] -- Ho conservato la chiave --> SC01[SC-01 Finestra principale, collegato]
+```

diff --git a/docs/moduli/interfaccia/4-schermate.md b/docs/moduli/interfaccia/4-schermate.md
@@ -113,6 +113,8 @@ Si apre dalla riga **Impostazioni** in fondo alla colonna, sotto il Cestino, al 
 | Generale | Scorciatoia della nota rapida: clic sul campo e si preme la combinazione nuova; se un altro programma la usa già lo si dice e resta la vecchia; «Ripristina» torna al default (separata per Windows e macOS e sincronizzata, RB-52). Avvia Memodu all'accensione: interruttore, spento di default, solo su questo dispositivo. Tieni Memodu in primo piano: interruttore, spento di default, solo su questo dispositivo; la finestra principale resta sopra gli altri programmi (DEC-93, resta qui per DEC-122). Tema: Sistema · Chiaro · Scuro, di default Sistema; solo su questo dispositivo |
 | Ricerca | «Mostra le note del cestino nei risultati»: interruttore, acceso di default, sincronizzato come la scorciatoia (RB-29, RB-52, DEC-94) |
 
+Con DEC-132 nel box dell'account, sotto l'email e lo stato, ci sono i collegamenti «Cambia password» (apre SC-08) e «Dispositivi collegati» (apre SC-09), solo dopo l'accesso (scelta di Manuel Cucca il 14/10/2026; [wireframe aggiornato](https://www.figma.com/design/ioeRDMTxu3TEMoLN8rinAK/Memodu--Wireframe--Fase-4-?node-id=75-260), esportazione `immagini/SC-06-collegato.png` rifatta il 14/10/2026; mockup da rifare in Fase 6).
+
 Le sezioni Sincronizzazione, Tema e Dispositivo non ci sono più (DEC-122): stato, account e nome del dispositivo stanno nel box dell'account, il tema in Generale.
 
 ### Stati della schermata
@@ -172,7 +174,10 @@ Elementi che si ripetono, notati disegnando i wireframe. Sono l'ingresso della F
 | Campo nome nell'albero | Crea o rinomina una cartella sul posto, con il nome selezionato (RB-48) | SC-01 |
 | Cestino durante il trascinamento | Zona di rilascio in fondo alla colonna, solo mentre si trascina | SC-01 |
 | Elemento del cestino | Icona, nome, provenienza e data, Ripristina | SC-04 |
-| Riga di impostazione | Etichetta a sinistra, controllo a destra | SC-06 |
+| Riga di impostazione | Etichetta a sinistra, controllo a destra | SC-06, SC-09 |
+| Collegamento | Testo sottolineato che porta altrove o cambia un campo: «Password dimenticata?», «Cambia password», «Usa la chiave di recupero» (DEC-132) | SC-05, SC-06, SC-08 |
+| Casella | Una scelta sì o no con la sua etichetta: «Scollega gli altri miei dispositivi» (DEC-132) | SC-05, SC-08 |
+| Chiave da conservare | Testo da copiare in un riquadro, con «Copia» (DEC-132) | SC-05 |
 | Stato vuoto | Spiegazione più azione, al posto di una lista vuota | SC-01, SC-03 |
 | Icona in background | Area di notifica (Windows) o barra dei menu (macOS): apre la nota rapida e il programma | Fuori dalle schermate |
 

diff --git a/docs/moduli/sincronizzazione/1-requisiti.md b/docs/moduli/sincronizzazione/1-requisiti.md
@@ -42,7 +42,7 @@ Scritti dall'agente dai flussi e dalle decisioni (FL-07, DEC-75 … DEC-83). Con
 ---
 
 ## RF-14 – Accesso all'installazione
-**Priorità:** Must · **Origine:** DEC-05, DEC-121, DEC-132 · **Fase:** 4 · **Stato:** In progettazione (account nel database, DEC-132); implementato con l'utente fisso di DEC-121 (rilasciato fino alla 0.1.13, 07/10/2026)
+**Priorità:** Must · **Origine:** DEC-05, DEC-121, DEC-132 · **Fase:** 5 · **Stato:** In progettazione (account nel database, DEC-132); implementato con l'utente fisso di DEC-121 (rilasciato fino alla 0.1.13, 07/10/2026)
 
 > DEC-132 (13/10/2026): requisito riaperto dalla Fase 1 per gli account nel database. Lo scenario d'uso è riscritto per gli account nel database (approvato da Manuel Cucca il 14/10/2026); i criteri di accettazione qui sotto valgono per l'utente fisso e si riscrivono in Fase 8, dopo flussi e mockup.
 
@@ -114,7 +114,7 @@ Anche se si sviluppa dopo la prima fase, il modo in cui si salvano le note deve 
 ---
 
 ## RF-16 – Elenco dei dispositivi e uscita a distanza
-**Priorità:** Must (da Should, DEC-132) · **Origine:** DEC-132 · **Fase:** 4 · **Stato:** In progettazione
+**Priorità:** Must (da Should, DEC-132) · **Origine:** DEC-132 · **Fase:** 5 · **Stato:** In progettazione
 
 > Da ripensare (DEC-13, DEC-121): nell'architettura temporanea di DEC-121 tutti i dispositivi condividono il segreto dei gettoni e non se ne può far uscire uno solo; nell'architettura finale ognuno ha il suo gettone di rinnovo, che si può revocare. Senza web cade l'esempio del browser dimenticato aperto, e uscendo la copia di lavoro resta (RB-89).
 

diff --git a/docs/registri/storico.md b/docs/registri/storico.md
@@ -540,3 +540,5 @@
 | 14/10/2026 | Manuel Cucca | RF-14: anche nel recupero dall'app la persona sceglie se scollegare gli altri dispositivi, come nel cambio della password | DEC-132 |
 | 14/10/2026 | Manuel Cucca | Fase 2 di RF-14 e RF-16 approvata: FL-08 aggiornato, FL-14 cambio della password e recupero, FL-15 dispositivi e chiusura a distanza, RB-97 … RB-100 (password nuova scritta due volte, niente cambio senza rete, conferma prima di chiudere un dispositivo, il dispositivo in uso si scollega con Esci); RB-86 superata | DEC-132 |
 | 14/10/2026 | Manuel Cucca | Fase 3 di RF-14 e RF-16 approvata: EN-05 Account in una tabella del server, EN-06 Dispositivo con accesso senza scadenza, stato Chiuso al posto di Scaduto; email e cancellazione dell'account non si cambiano dall'app | DEC-132 |
+| 14/10/2026 | Manuel Cucca | Fase 4 di RF-14 e RF-16: «Cambia password» e «Dispositivi collegati» sono due collegamenti nel box dell'account e aprono ognuno una finestra sopra le impostazioni, come SC-05 | DEC-132 |
+| 14/10/2026 | Manuel Cucca | Fase 4 di RF-14 e RF-16 approvata: recupero nella stessa finestra di SC-05 da «Password dimenticata?», chiave nuova con «Copia», SC-08 Cambia password con «Usa la chiave di recupero», SC-09 Dispositivi collegati con «Scollega» e conferma nella riga, collegamenti nel box dell'account di SC-06 | DEC-132 |
